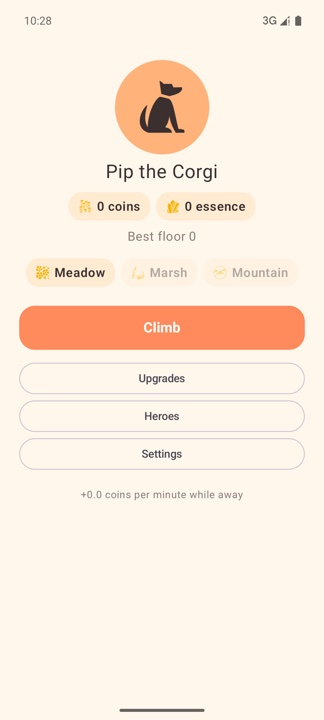
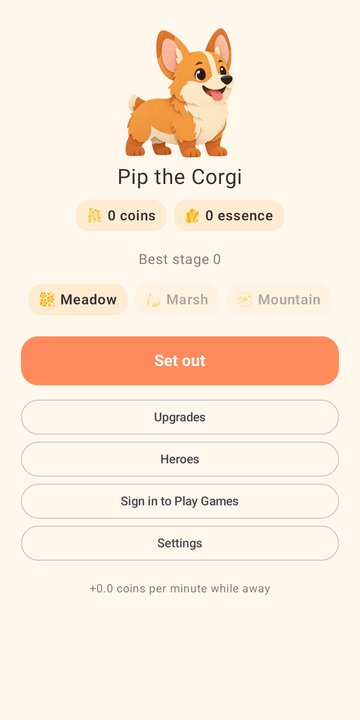
Paws & Perils: trail copy and 0.3.0 screenshots

diff --git a/pawsandperils/index.html b/pawsandperils/index.html
@@ -4,13 +4,13 @@
 <meta charset="utf-8">
 <meta name="viewport" content="width=device-width, initial-scale=1">
 <title>Paws &amp; Perils — Codesarray</title>
-<meta name="description" content="Paws &amp; Perils is a cute roguelike climb with an idle RPG underneath: three heroes, thirty blessings, three biomes, and coins that keep earning while the app is closed.">
+<meta name="description" content="Paws &amp; Perils is a cute paper cut-out roguelike with an idle RPG underneath: walk a painted trail, choose your path at every fork, three heroes, thirty blessings, three biomes, and coins that keep earning while the app is closed.">
 <link rel="canonical" href="https://codesarray.com/pawsandperils/">
 <meta name="theme-color" content="#fff7ec">
 <meta property="og:type" content="website">
 <meta property="og:site_name" content="Codesarray">
-<meta property="og:title" content="Paws &amp; Perils — an idle roguelike climb">
-<meta property="og:description" content="Climb, fight, get stronger. Offline roguelike that earns coins while you rest.">
+<meta property="og:title" content="Paws &amp; Perils — a paper cut-out idle roguelike">
+<meta property="og:description" content="Set out, fight, get stronger. Offline roguelike that earns coins while you rest.">
 <meta property="og:url" content="https://codesarray.com/pawsandperils/">
 <meta name="twitter:card" content="summary">
 <link rel="icon" href="/favicon.svg" type="image/svg+xml">
@@ -49,7 +49,7 @@
       <span class="eyebrow">Roguelike · Idle RPG · Android</span>
       <h1>Paws &amp; Perils</h1>
       <p class="lede">
-        Climb, fight, get stronger. Offline roguelike that earns coins while you rest.
+        Set out, fight, get stronger. Offline roguelike that earns coins while you rest.
       </p>
       <div class="actions">
         <span class="btn btn-soon" aria-disabled="true">Coming soon to Google Play</span>
@@ -61,11 +61,11 @@
   <section class="section" id="game">
     <div class="container">
       <div class="section-head">
-        <h2>The climb</h2>
+        <h2>The trail</h2>
         <p>
-          Paws &amp; Perils is a cute roguelike climb with an idle RPG underneath.
-          Pick a hero, fight your way up floor by floor, and get stronger with every
-          run — then keep earning coins while you're away.
+          Paws &amp; Perils is a cute paper cut-out roguelike with an idle RPG underneath.
+          Pick a hero, set out along a hand-painted trail, choose your path at every
+          fork, and get stronger with every run — then keep earning coins while you're away.
         </p>
       </div>
 
@@ -87,8 +87,8 @@
               <circle cx="9" cy="8" r="3.2"/><path d="M3 20a6 6 0 0 1 12 0"/><path d="M16.5 5.4a3.2 3.2 0 0 1 0 5.2M17 15.6A6 6 0 0 1 21 20"/>
             </svg>
             <div>
-              <h4>Three heroes</h4>
-              <p>Pip the Corgi is steady and loyal, and the one you start with. Mochi the Cat is fast, lucky, and hard to put down for good. Bram the Badger is slow, thick-hided, and built to outlast anything.</p>
+              <h4>Three heroes, painted in paper</h4>
+              <p>Pip the Corgi is steady and loyal, and the one you start with. Mochi the Cat is fast, lucky, and hard to put down for good. Bram the Badger is slow, thick-hided, and built to outlast anything. Every hero and enemy is layered paper with a soft shadow, and they breathe, stride and flinch.</p>
             </div>
           </li>
           <li>
@@ -96,8 +96,8 @@
               <path d="M12 3.2l2.3 5.1 5.5.6-4.1 3.7 1.1 5.4L12 15.4l-4.8 2.6 1.1-5.4L4.2 8.9l5.5-.6z"/>
             </svg>
             <div>
-              <h4>Thirty blessings</h4>
-              <p>Pick blessings as you climb — thirty in all, from straightforward stat boosts to build-defining rares and epics like first strike, execute, and giant slayer.</p>
+              <h4>Forks, signposts and thirty blessings</h4>
+              <p>At every fork, three signposted paths — a battle, a treasure, a mystery, a campfire, or an elite guarding a bigger prize — with a glimpse of what waits at the end. Pick blessings as you go: thirty in all, from stat boosts to build-defining rares like first strike, execute, and giant slayer.</p>
             </div>
           </li>
           <li>
@@ -115,22 +115,22 @@
           <li>
             <picture>
               <source srcset="/pawsandperils/img/phone-1-home.webp" type="image/webp">
-              <img src="/pawsandperils/img/phone-1-home.jpg" width="324" height="720" loading="lazy" decoding="async"
-                   alt="The home screen: Pip the Corgi above a coin and essence count, the Meadow, Marsh and Mountain biomes, and a Climb button.">
+              <img src="/pawsandperils/img/phone-1-home.jpg" width="360" height="720" loading="lazy" decoding="async"
+                   alt="The home screen: the painted Pip the Corgi above a coin and essence count, the Meadow, Marsh and Mountain biomes, and a Set out button.">
             </picture>
           </li>
           <li>
             <picture>
-              <source srcset="/pawsandperils/img/phone-2-battle.webp" type="image/webp">
-              <img src="/pawsandperils/img/phone-2-battle.jpg" width="324" height="720" loading="lazy" decoding="async"
-                   alt="A battle on floor 1: Pip the Corgi facing a beetle, a health bar under each and a damage number floating above the corgi.">
+              <source srcset="/pawsandperils/img/phone-2-trail.webp" type="image/webp">
+              <img src="/pawsandperils/img/phone-2-trail.jpg" width="360" height="720" loading="lazy" decoding="async"
+                   alt="The trail: Pip the Corgi at a fork in a painted meadow, three signposted paths ahead marked Battle, Treasure and Battle, with a shadow of the enemy and a chest at the clearings.">
             </picture>
           </li>
           <li>
             <picture>
-              <source srcset="/pawsandperils/img/phone-3-blessing.webp" type="image/webp">
-              <img src="/pawsandperils/img/phone-3-blessing.jpg" width="324" height="720" loading="lazy" decoding="async"
-                   alt="The blessing offer after winning a fight: Iron Skin, Sharp and Prickly, each listing what it adds.">
+              <source srcset="/pawsandperils/img/phone-3-battle.webp" type="image/webp">
+              <img src="/pawsandperils/img/phone-3-battle.jpg" width="360" height="720" loading="lazy" decoding="async"
+                   alt="A battle in the meadow: the painted Pip the Corgi facing a crow, a name plaque and health bar under each.">
             </picture>
           </li>
         </ul>
@@ -138,7 +138,7 @@
         <div class="notes">
           <div>
             <h4>Fair with ads</h4>
-            <p>No banner ads, ever. An occasional interstitial ad may appear after a climb, and a few optional rewarded ads let you revive, double a treasure reward, or double your away coins — always your choice.</p>
+            <p>No banner ads, ever. An occasional interstitial ad may appear after a run, and a few optional rewarded ads let you revive, double a treasure reward, or double your away coins — always your choice.</p>
           </div>
           <div>
             <h4>Premium</h4>

diff --git a/index.html b/index.html
@@ -4,14 +4,14 @@
 <meta charset="utf-8">
 <meta name="viewport" content="width=device-width, initial-scale=1">
 <title>Codesarray — small, focused mobile games</title>
-<meta name="description" content="Codesarray builds small, focused mobile games for Android: Blockfall, a calm 8x8 block puzzle with a daily challenge, and Paws &amp; Perils, a cute roguelike climb with an idle RPG underneath.">
+<meta name="description" content="Codesarray builds small, focused mobile games for Android: Blockfall, a calm 8x8 block puzzle with a daily challenge, and Paws &amp; Perils, a cute paper cut-out roguelike with an idle RPG underneath.">
 <link rel="canonical" href="https://codesarray.com/">
 <meta name="theme-color" content="#1c1f3a" media="(prefers-color-scheme: dark)">
 <meta name="theme-color" content="#f4f5fb" media="(prefers-color-scheme: light)">
 <meta property="og:type" content="website">
 <meta property="og:site_name" content="Codesarray">
 <meta property="og:title" content="Codesarray — small, focused mobile games">
-<meta property="og:description" content="Blockfall, a calm 8x8 block puzzle with a daily challenge, and Paws &amp; Perils, a cute roguelike climb with an idle RPG underneath.">
+<meta property="og:description" content="Blockfall, a calm 8x8 block puzzle with a daily challenge, and Paws &amp; Perils, a cute paper cut-out roguelike with an idle RPG underneath.">
 <meta property="og:url" content="https://codesarray.com/">
 <meta name="twitter:card" content="summary">
 <link rel="icon" href="/favicon.svg" type="image/svg+xml">
@@ -103,8 +103,8 @@
           </div>
 
           <p class="card-text">
-            A cute roguelike climb with an idle RPG underneath: pick a hero, fight
-            floor by floor, earn coins while you're away.
+            A cute paper cut-out roguelike with an idle RPG underneath: pick a hero,
+            walk the trail, choose your path at every fork, earn coins while you're away.
           </p>
 
           <div class="actions">
